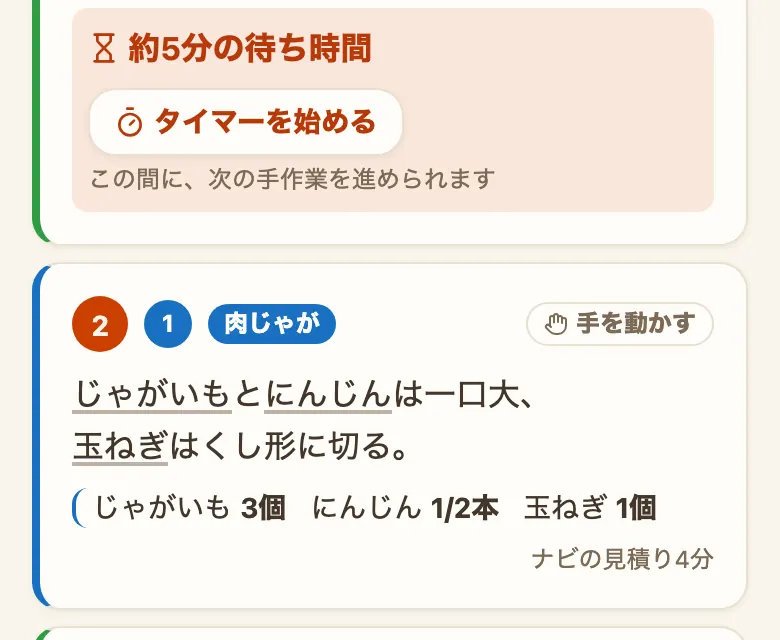
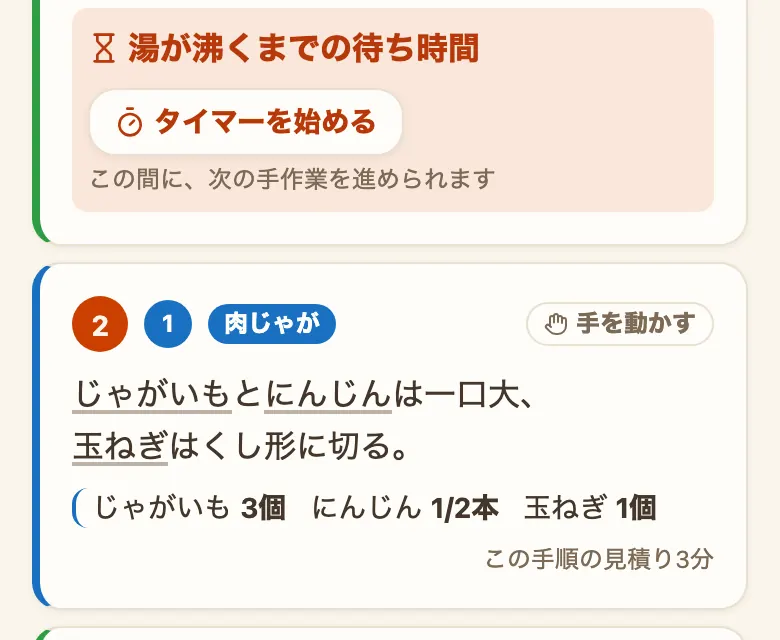
説明書のスクショを現行UIに追随(便EU 群1): 全31カットを点検し7枚を撮り直し(タイマーの消音がヘッダの鈴に/週の日カードに鍵/週の栄養の文言/貼り付けの案内追加/検索の並び替えボタン移動/レシピ詳細の1食あたりの言い方/ナビの湯沸かしの帯)+alt文と寸法を追随+ナビの図を毎回同じ絵になるよう固定

diff --git a/public/about/manual.html b/public/about/manual.html
@@ -680,7 +680,7 @@
     </ol>
 
     <figure class="shot" style="--w:390px">
-      <img src="/about/img/manual/paste.webp" width="780" height="748" loading="lazy" decoding="async" alt="テキスト貼り付けの欄。貼り付けた文章の下に「材料4件・手順3件を読み取りました。内容を確認して修正してください」と出ている">
+      <img src="/about/img/manual/paste.webp" width="780" height="844" loading="lazy" decoding="async" alt="テキスト貼り付けの欄。貼り付けた文章の下に「材料4件・手順3件を読み取りました。内容を確認して修正してください」と出て、その下に合わせ調味料の色分けについての案内と、「自動で振り分ける」「閉じる」のボタンが並んでいる">
       <figcaption>貼り付けて「自動で振り分ける」を押すと、読み取った件数が出ます</figcaption>
     </figure>
 
@@ -775,7 +775,7 @@
     <p>「週」タブの<strong>「表示のしかた」</strong>を開くと、「週区切り」（月曜から日曜まで）と「今日から7日間」を選べます。朝食・昼食・夕食のボタンは「表示のしかた」の見出しの横にあり、押すと使う食事だけを出せます（畳んでいるときも押せます）。</p>
 
     <figure class="shot" style="--w:390px">
-      <img src="/about/img/manual/plan-week-day.webp" width="780" height="788" loading="lazy" decoding="async" alt="献立の「週」タブの1日ぶんのカード。日付と「今日」の印、色のついた夕食の囲みの中に主菜・副菜の行と料理を追加のボタン、その下にその日の献立のカロリー・塩分・野菜量の行、この日のメモの欄が並んでいる">
+      <img src="/about/img/manual/plan-week-day.webp" width="780" height="804" loading="lazy" decoding="async" alt="献立の「週」タブの1日ぶんのカード。日付と「今日」の印、その右に折りたたみの矢印とロックの鍵のマーク、色のついた夕食の囲みにも右上に鍵のマークがあり、囲みの中に主菜・副菜の行と料理を追加のボタン、その下にその日の献立のカロリー・塩分・野菜量の行、この日のメモの欄が並んでいる">
       <figcaption>「週」タブの1日ぶんのカード。サイコロのマークでその行だけ振り直せます</figcaption>
     </figure>
 
@@ -881,7 +881,7 @@
     </figure>
 
     <figure class="shot" style="--w:390px">
-      <img src="/about/img/manual/plan-week-nutrition-open.webp" width="780" height="932" loading="lazy" decoding="async" alt="献立の「週」タブで栄養の概算を開いた画面。8項目と野菜が縦に並び、その下に「ごはん1杯（150g）を含めて計算する」のチェック、「1日分のめやすは、塩分7.5g（男性）・6.5g（女性）、野菜350gです。」の1行が続いている">
+      <img src="/about/img/manual/plan-week-nutrition-open.webp" width="780" height="1016" loading="lazy" decoding="async" alt="献立の「週」タブで栄養の概算を開いた画面。8項目と野菜が縦に並び、その下に「1食につきごはん1杯（150g）を足して計算する」のチェック、「1日分のめやすは、塩分7.5g（男性）・6.5g（女性）、野菜350gです。」の1行が続いている">
       <figcaption>献立の栄養パネルをPro版で開いたところ。1日分のめやすは説明文で添えます</figcaption>
     </figure>
 
@@ -1050,7 +1050,7 @@
     <p>手順の文章の中の「10分」のような時間表記はボタンになっています。<strong>タップするとその時間のタイマーが始まります。</strong>時間が本文に出てこない手順には「目安◯分」のボタンが付きます。</p>
 
     <figure class="shot" style="--w:390px">
-      <img src="/about/img/manual/timer.webp" width="780" height="844" loading="lazy" decoding="async" alt="「タイマーを調整」の窓。料理名と手順の番号、残り時間14:57が大きく出て、「−30秒」「+1分」「このタイマーを消音」「手順3を開く」「停止」のボタンが並んでいる">
+      <img src="/about/img/manual/timer.webp" width="780" height="720" loading="lazy" decoding="async" alt="「タイマーを調整」の窓。見出しの右に消音の鈴のマークがあり、料理名と手順の番号、残り時間14:57が大きく出て、「−30秒」「+1分」「手順3を開く」「停止」のボタンが並んでいる">
       <figcaption>動いているタイマーをタップすると「タイマーを調整」の窓が開きます</figcaption>
     </figure>
 
@@ -1077,7 +1077,7 @@
     <p>「献立」タブの「日」に2品以上並ぶと、その下に<strong>「並行調理ナビ」の入口</strong>が出ます。入口を押して、「レシピ一覧から選択中」と「今週の献立の予定」の両方から2〜3品を選んで「段取りを作る」を押すと、<strong>待ち時間の長い工程を先にして、その隙間に別の手作業を差し込んだ「1本の段取り」</strong>を提案します。</p>
 
     <figure class="shot" style="--w:390px">
-      <img src="/about/img/manual/cooknavi.webp" width="780" height="640" loading="lazy" decoding="async" alt="並行調理ナビの手順。「約5分の待ち時間」の帯に「タイマーを始める」のボタンと「この間に、次の手作業を進められます」が入り、その下に次の手順が「肉じゃが」「手を動かす」の印と、使う材料・分量つきで並んでいる">
+      <img src="/about/img/manual/cooknavi.webp" width="780" height="640" loading="lazy" decoding="async" alt="並行調理ナビの手順。「湯が沸くまでの待ち時間」の帯に「タイマーを始める」のボタンと「この間に、次の手作業を進められます」が入り、その下に次の手順が「肉じゃが」「手を動かす」の印と、使う材料・分量つきで並んでいる">
       <figcaption>「待ち」の間に、次の手作業の手順が入ります</figcaption>
     </figure>
 
@@ -1149,7 +1149,7 @@
     <p>「レシピ」タブ上部の検索欄（「料理名・材料・タグで検索」）は、表記のゆれを吸収します。</p>
 
     <figure class="shot" style="--w:390px">
-      <img src="/about/img/manual/search.webp" width="780" height="726" loading="lazy" decoding="async" alt="レシピ一覧で「たまねぎ」と検索した画面。検索欄の下にヒットした件数と全体の件数が出て、玉ねぎを使うレシピのカードが並んでいる">
+      <img src="/about/img/manual/search.webp" width="780" height="722" loading="lazy" decoding="async" alt="レシピ一覧で「たまねぎ」と検索した画面。検索欄の下にヒットした件数と全体の件数が出て、玉ねぎを使うレシピのカードが並んでいる">
       <figcaption>「たまねぎ」で検索したところ。「玉ねぎ」の表記でもヒットします</figcaption>
     </figure>
 
